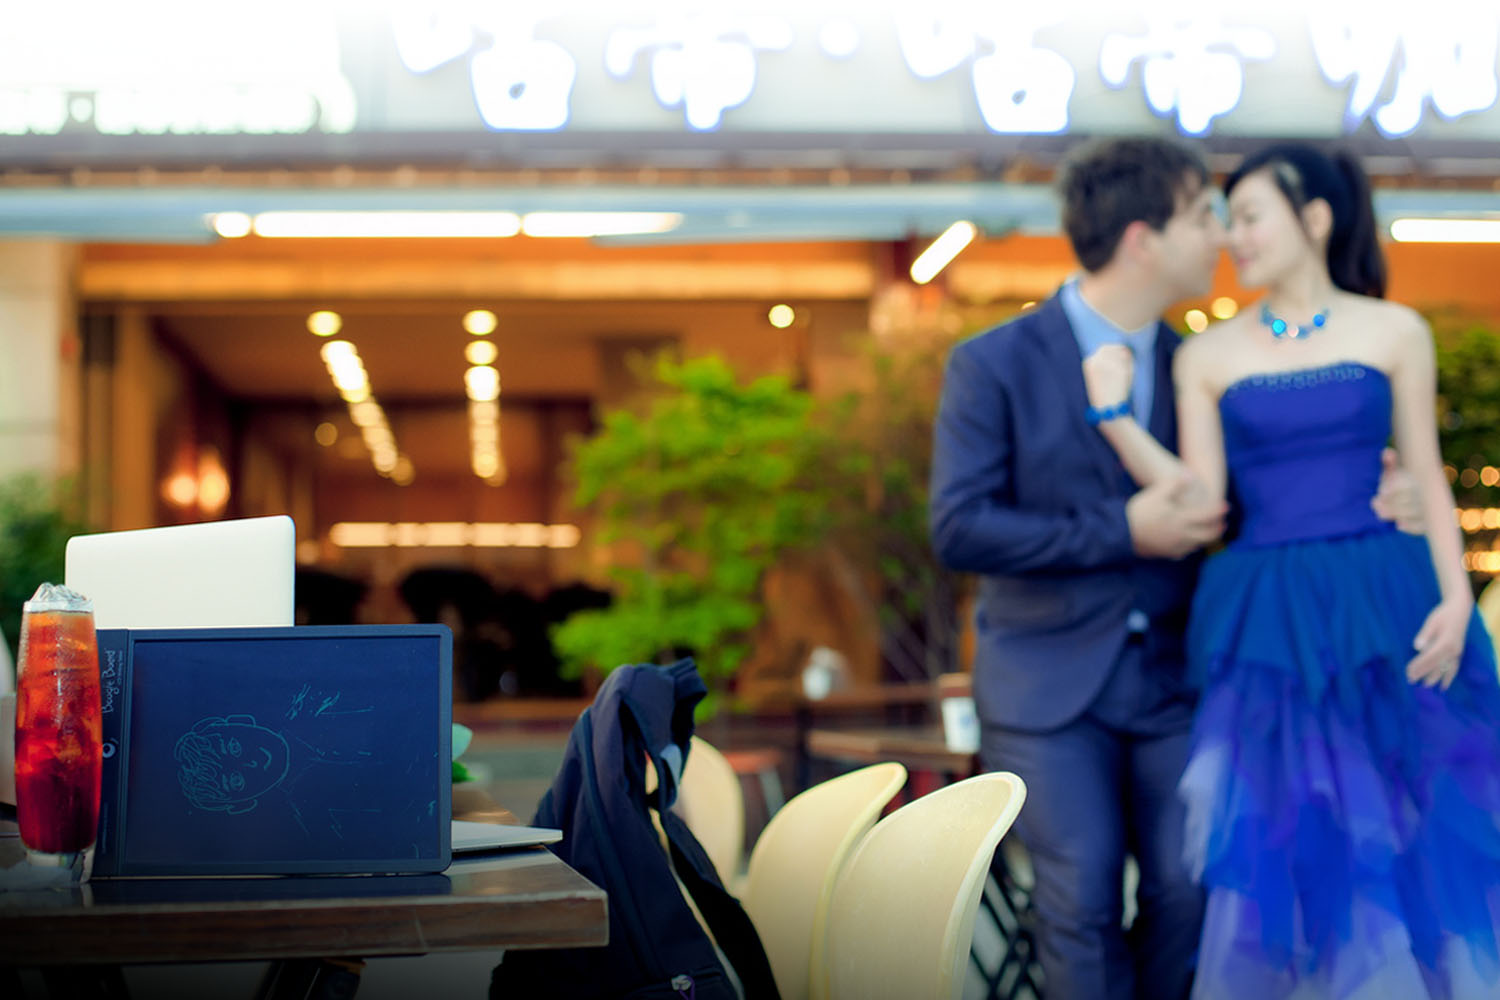
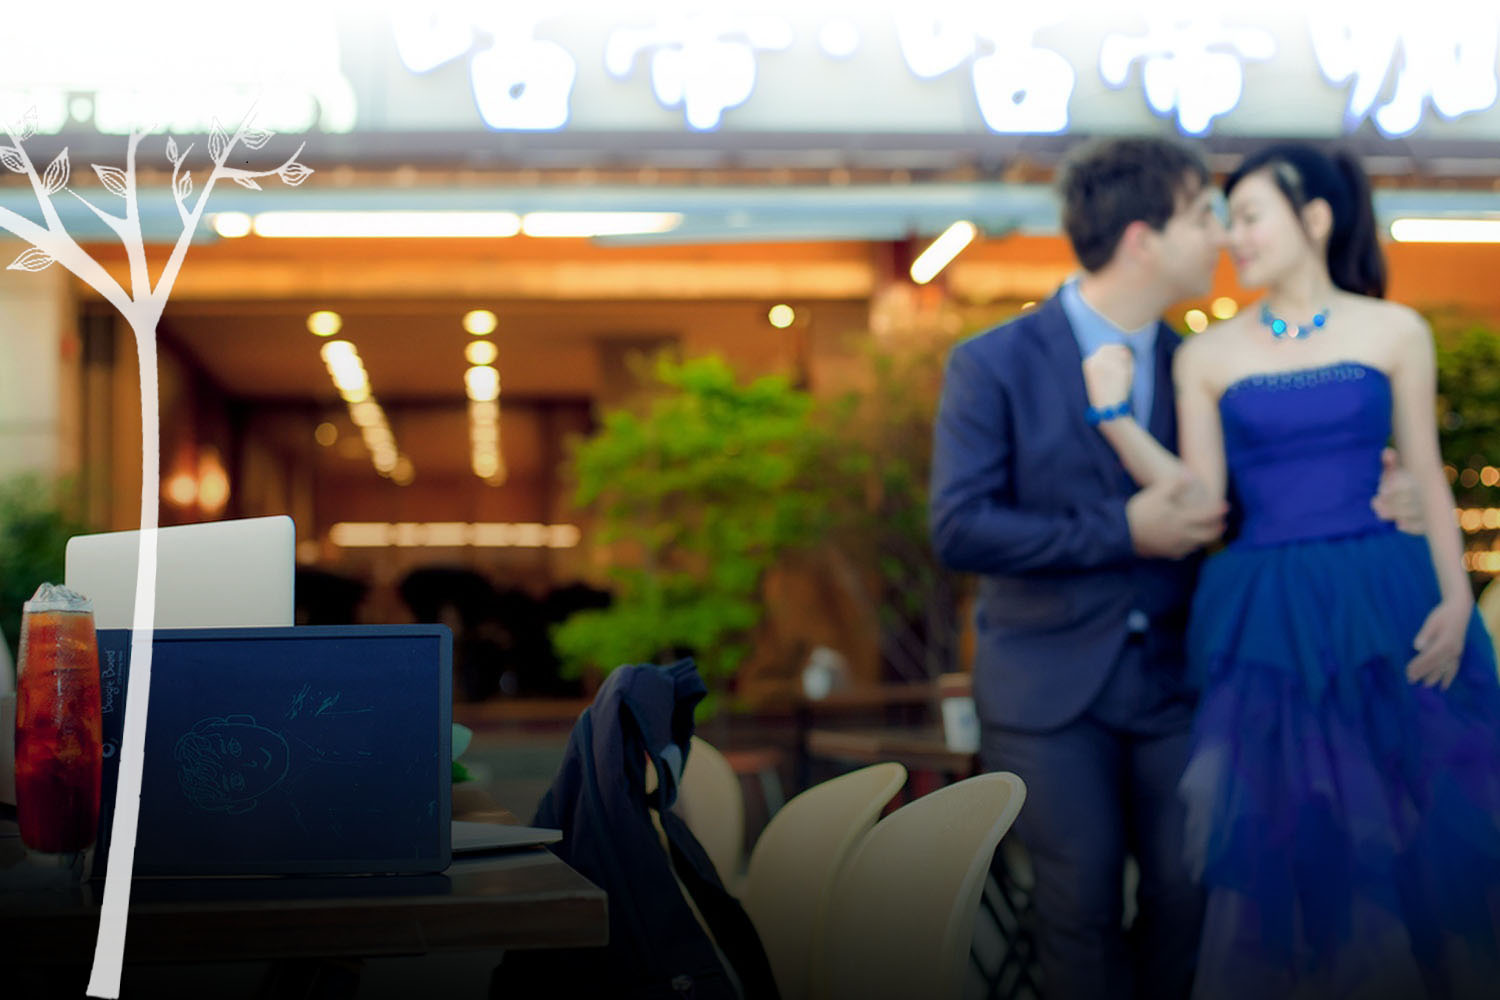
add tree on main bg, and adjust menu top position

diff --git a/mojits/weddInfo/assets/index.css b/mojits/weddInfo/assets/index.css
@@ -1,6 +1,6 @@
 #movingPommeMenu {
   position: fixed;
-  top: 15%;
+  top: 24%;
   background-image: url("./pomme.png");
   background-size: contain;
   background-repeat: no-repeat;
